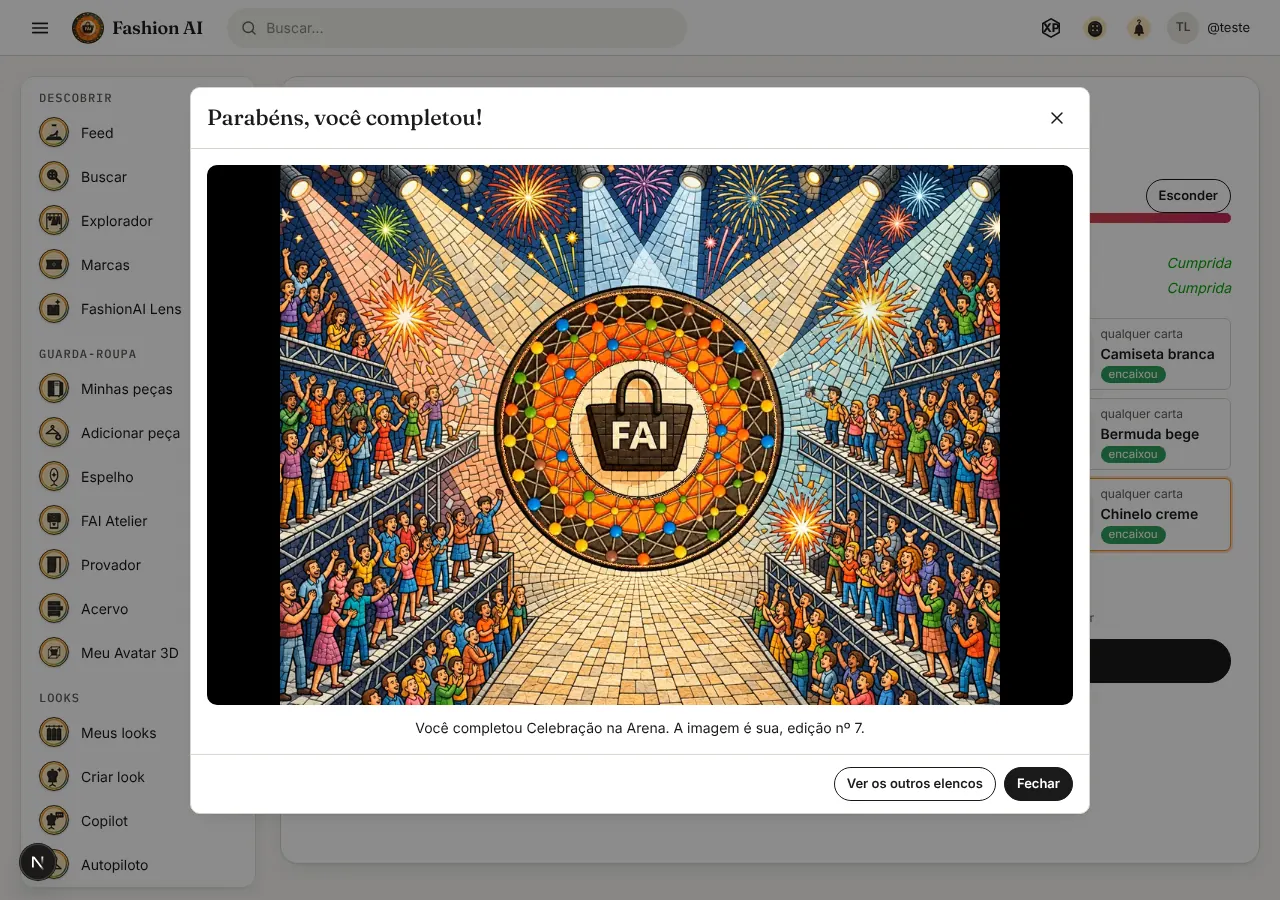
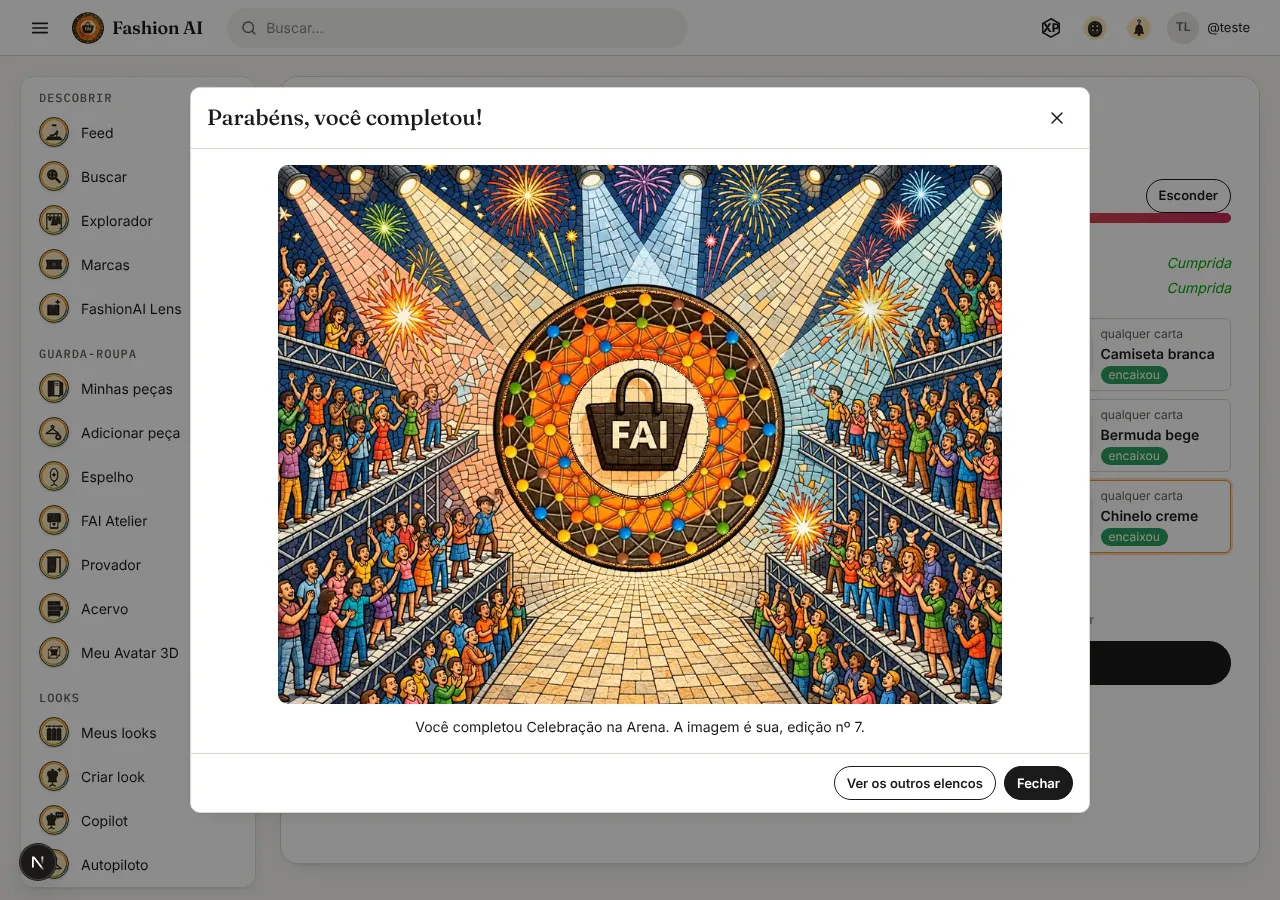
fix(flair-elencos): vídeo do modal em quadro cheio, sem faixas pretas
O vídeo ficava num quadro 900 px de largura com fundo preto, e a cena quadrada
aparecia com faixas pretas dos lados. Agora a moldura tem a proporção do próprio
vídeo (--ep-ar, a mesma largura/altura da imagem do quebra-cabeça) e ocupa a
maior largura que cabe em 60dvh de altura, com object-fit: cover e fundo
transparente. Vale para as quatro cenas e para a arena.

Também troca o font-size 11.5px de 48-flair-elencos-vagas.css por
var(--text-caption): o lint:styles da main recusava o valor e é etapa do build.

Claude-Session: https://claude.ai/code/session_01Ro1VbpCTg9pbWL95jLQE1K

Changed region(s): [[0.1562, 0.1556, 0.9688, 0.84], [0.875, 0.4044, 0.9062, 0.4356]]

diff --git a/components/flair/elencos/elenco-completo.tsx b/components/flair/elencos/elenco-completo.tsx
@@ -4,6 +4,7 @@
  * página do celular, com os controles) e a edição ganha. Os logos sem vídeo próprio mostram o próprio quebra-cabeça
  * se montando, peça a peça, em CSS (docs/flair/cbc/CINCO_ELENCOS.md, "O modal de conclusão").
  */
+import type { CSSProperties } from "react";
 import Link from "next/link";
 import { Dialog } from "@/components/ui";
 import { ElencoPuzzle } from "@/components/flair/elencos/elenco-puzzle";
@@ -31,6 +32,7 @@ export function ElencoCompleto({ qc, nome, edicao, aberto, onFechar }: Props) {
       <div className="ep-complete" data-testid="elenco-completo">
         {qc.video ? (
           <video className="ep-complete-video" src={qc.video} poster={qc.imagem} autoPlay muted loop playsInline controls preload="auto"
+            style={{ "--ep-ar": qc.largura / 100 } as CSSProperties}
             aria-label={tx.t("flair3d.elencos.complete.video", { nome })} data-testid="elenco-video" />
         ) : (
           <ElencoPuzzle qc={qc} nome={nome} estados={[]} chaves={[]} completo montando />

diff --git a/components/flair/elencos/elencos.test.tsx b/components/flair/elencos/elencos.test.tsx
@@ -78,6 +78,8 @@ describe("um elenco", () => {
     expect(modal.textContent).toContain("Você completou Desafio do Fogo. A imagem é sua, edição nº 3.");
     const video = within(modal).getByTestId("elenco-video") as HTMLVideoElement;
     expect(video.getAttribute("src")).toBe("/flair/elencos/fogo.mp4");
+    // quadro cheio: a moldura tem a proporção do vídeo (a cena é quadrada), sem faixas pretas
+    expect(video.style.getPropertyValue("--ep-ar")).toBe("1");
     expect(video.muted).toBe(true);
     expect([video.autoplay, video.loop, video.controls, video.hasAttribute("playsinline")]).toEqual([true, true, true, true]);
     expect(pecas()).toEqual(["encaixada", "encaixada", "encaixada", "encaixada"]);

diff --git a/app/(site)/_styles/32-flair-elencos.css b/app/(site)/_styles/32-flair-elencos.css
@@ -78,12 +78,15 @@
   text-align: center;
 }
 
+/* o quadro tem a proporção do próprio vídeo (--ep-ar): ocupa a largura toda que cabe em 60dvh de altura, sem faixas */
 .ep-complete-video {
   display: block;
-  width: 100%;
-  max-height: 60dvh;
+  width: min(100%, calc(60dvh * var(--ep-ar, 1)));
+  aspect-ratio: var(--ep-ar, 1);
+  height: auto;
+  object-fit: cover;
   border-radius: var(--radius);
-  background: #000;
+  background: transparent;
 }
 
 .ep-complete .ep-puzzle {

diff --git a/app/(site)/_styles/48-flair-elencos-vagas.css b/app/(site)/_styles/48-flair-elencos-vagas.css
@@ -90,7 +90,7 @@
   padding: 0 8px;
   border-radius: 999px;
   background: var(--surface-3);
-  font-size: 11.5px;
+  font-size: var(--text-caption);
 }
 
 .ep-vaga.is-encaixada .ep-vaga-estado {
